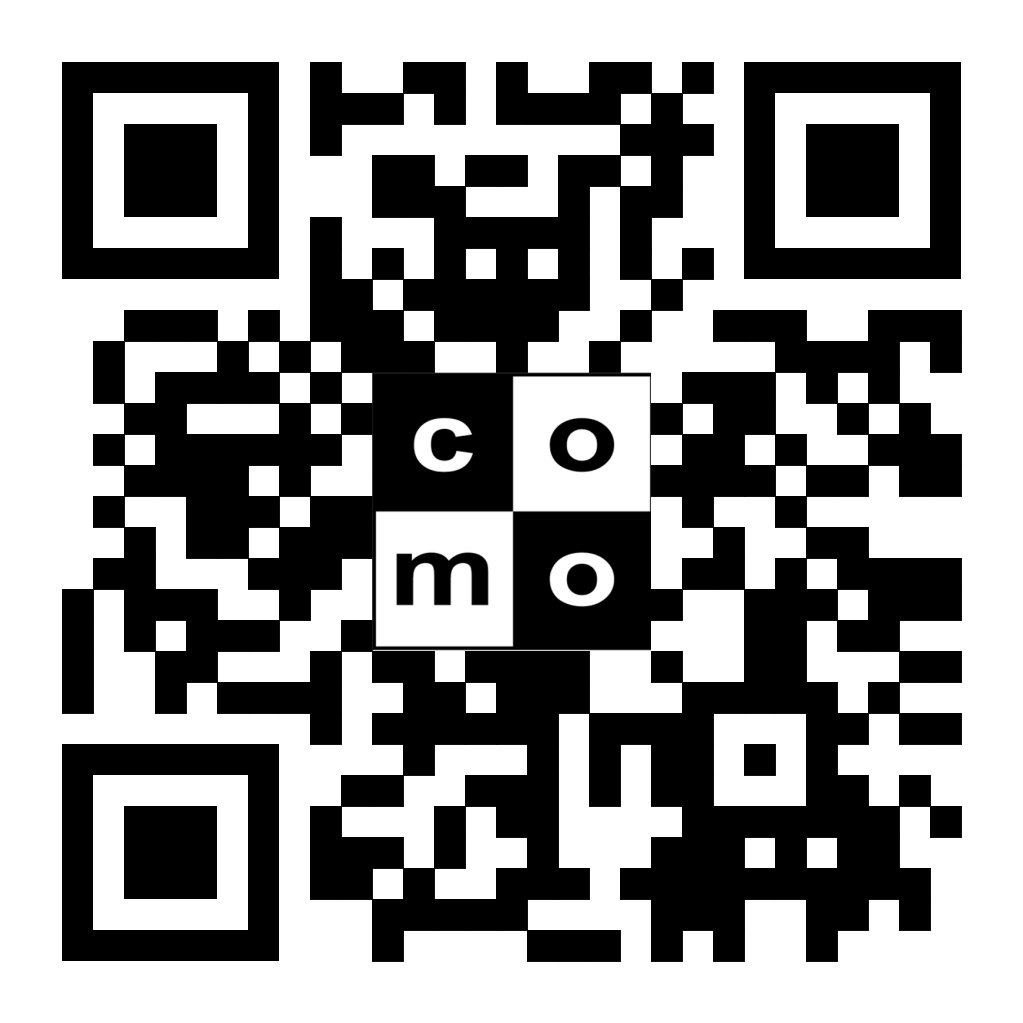
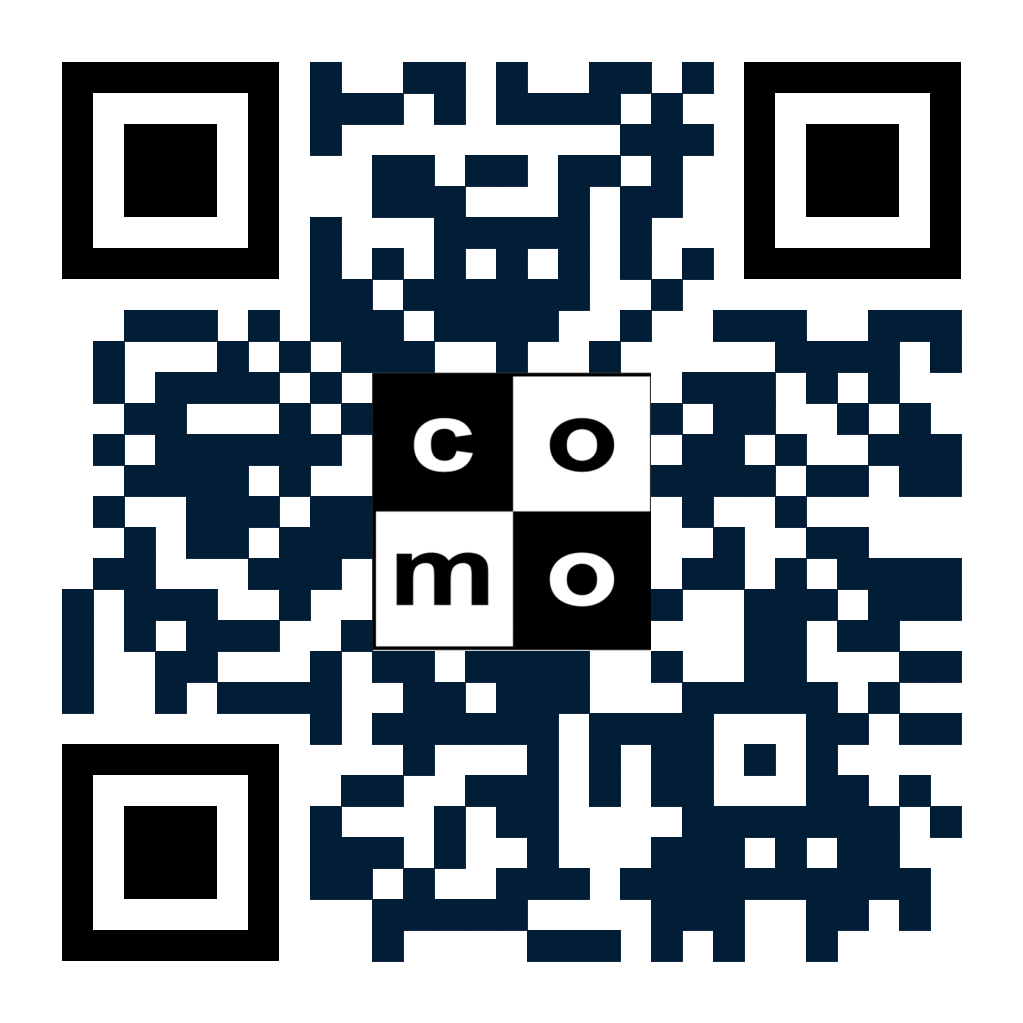
Feat: Codigo Qr menos negro

diff --git a/index.html b/index.html
@@ -23,7 +23,7 @@
             <div class="row">
                 <div class="col-md-3">
                     <form class="shadow-lg p-3 mb-5 bg-formulario rounded">
-                        <h4>Ingrese su Información</h4>
+                        <h4>Ingrese Su Información</h4>
                         <hr>
 
                         <div class="form-floating mb-3">
@@ -39,7 +39,7 @@
                         </div>
 
                         <div class="form-floating mb-3">
-                            <input type="email" class="form-control" id="correo" name="correo" placeholder="Correo"
+                            <input type="text" class="form-control" id="correo" name="correo" placeholder="Correo"
                                 oninput="generarInformacion()" onclick="mostrarMensajeCorreo()">
                             <label for="correo">Correo</label>
                         </div>
@@ -170,7 +170,7 @@
         <footer class="d-flex flex-wrap justify-content-between align-items-center py-4  border-top  text-light fixed">
             <p class="col-md-4 mb-0 text-light">Comercialización En Movimiento S.A de C.V - © 2023 </p>
 
-            <a href="/"
+            <a   
                 class=" text-light col-md-4 d-flex align-items-center justify-content-center mb-3 mb-md-0 me-md-auto link-dark text-decoration-none">
                 <img src="img/SSlogo.png" alt="" srcset="" class="logo-footer">
             </a>
